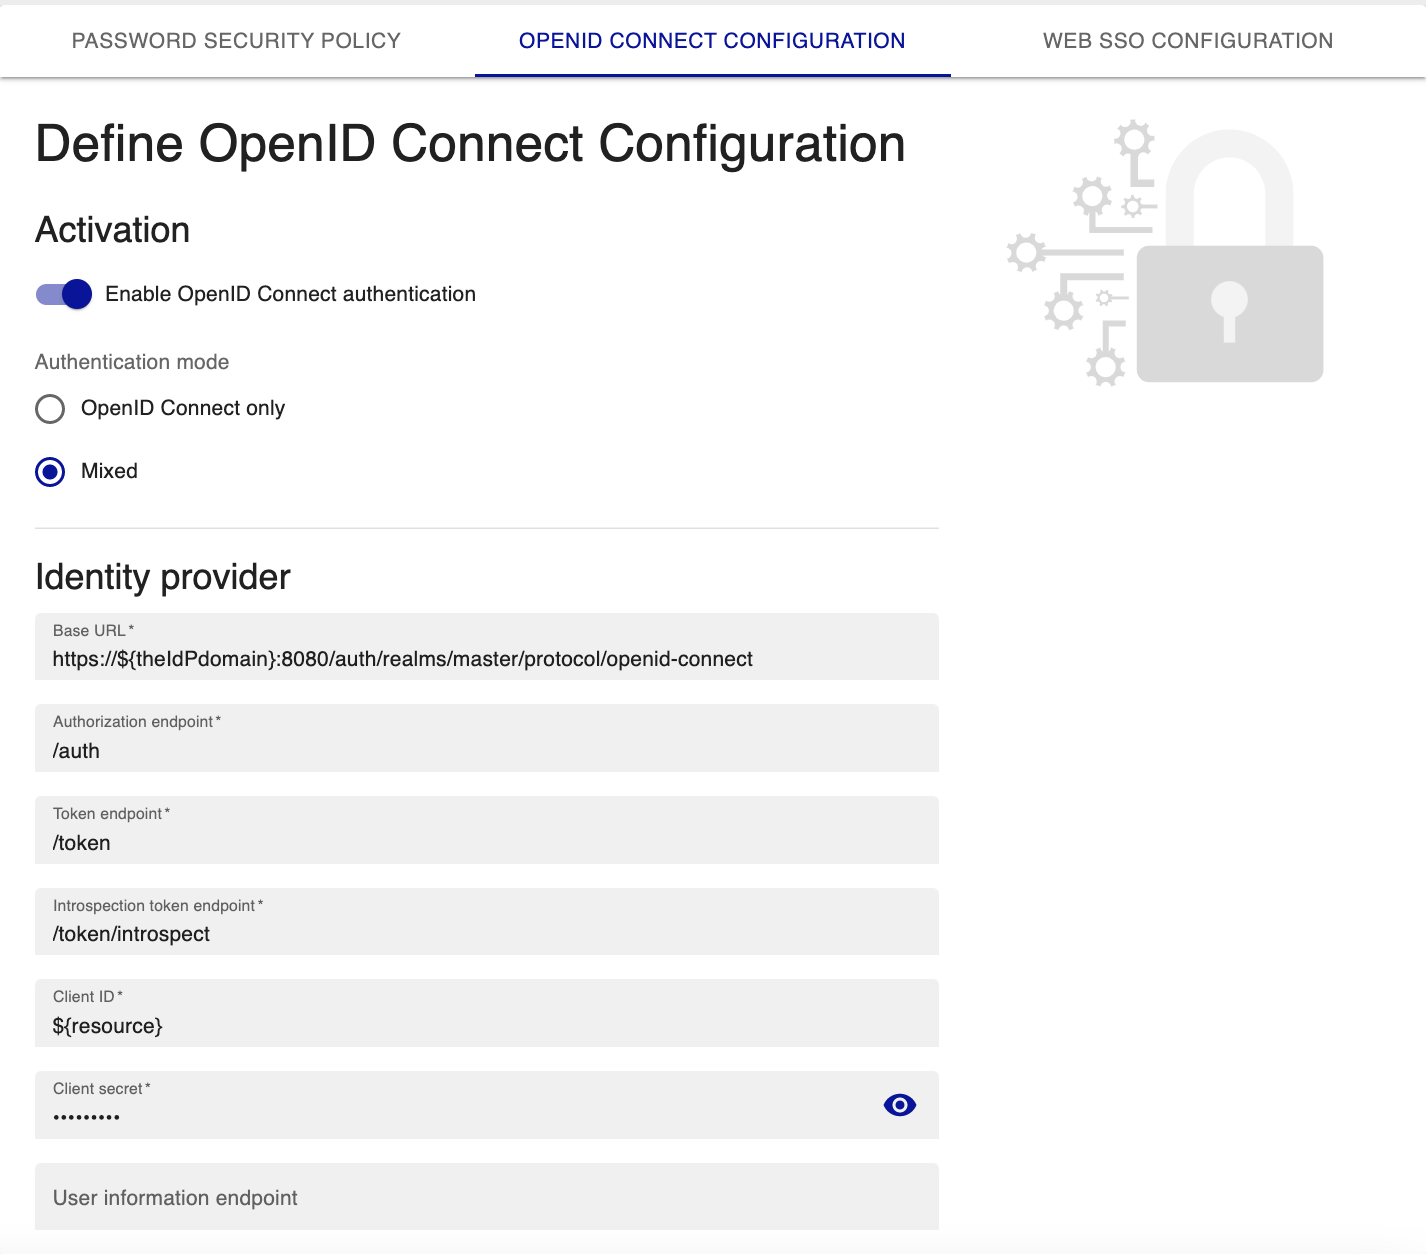
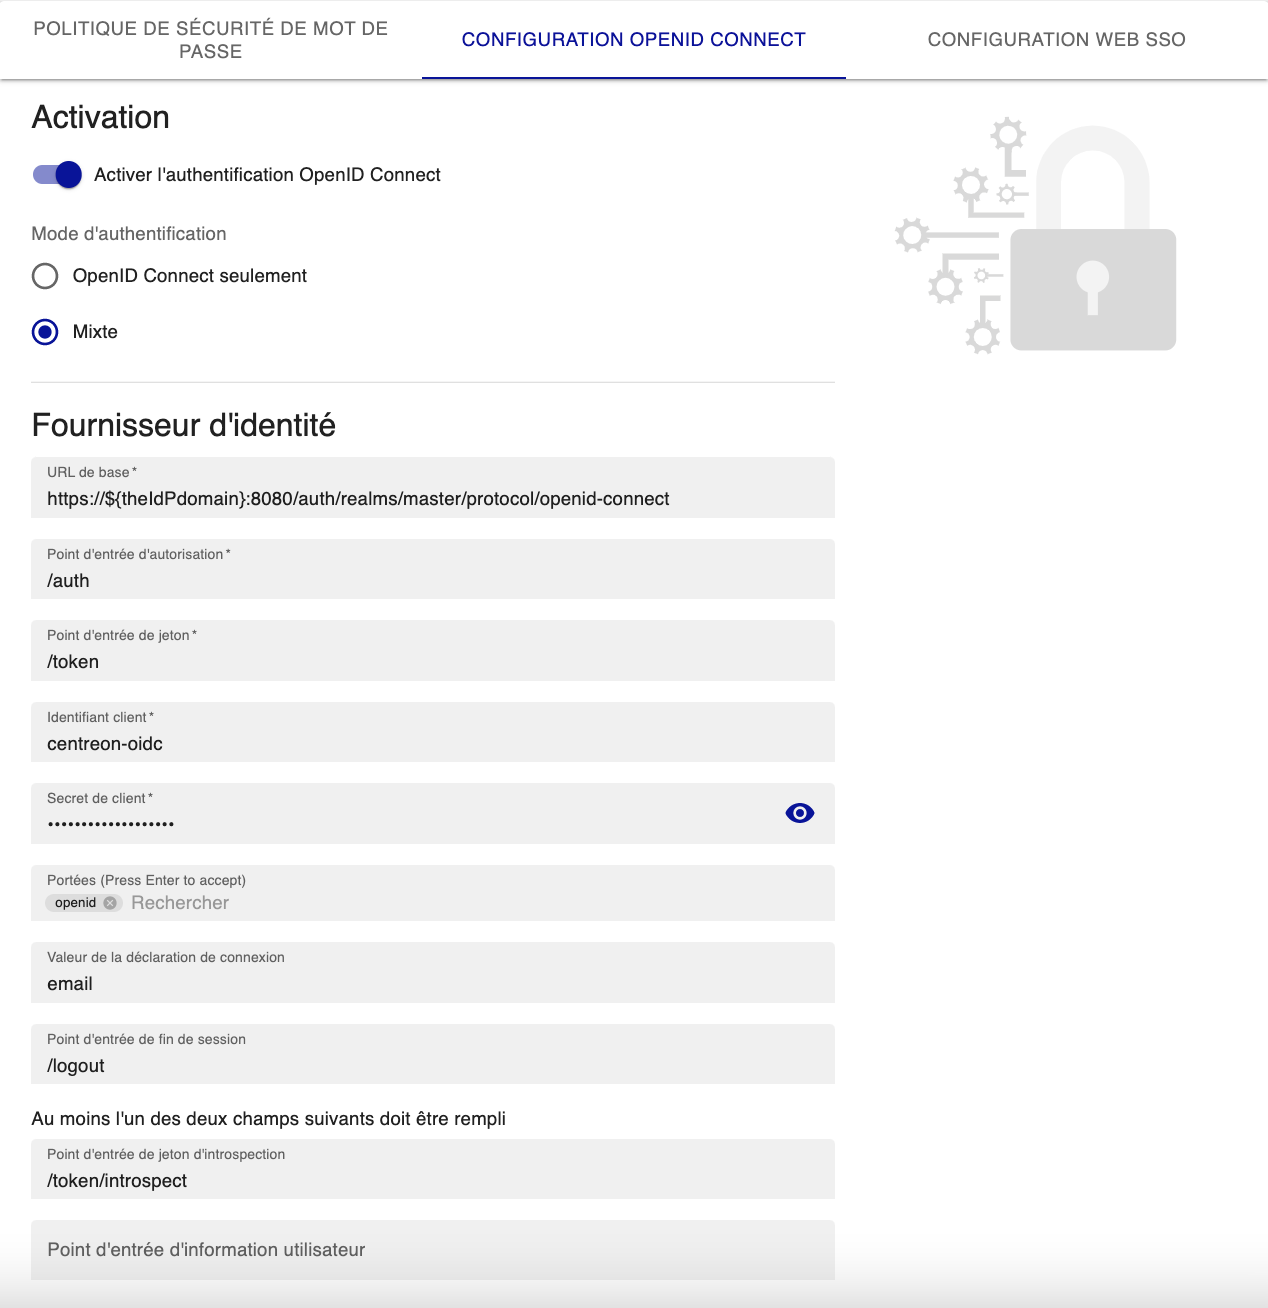
enh(oidc): improve configuration

diff --git a/i18n/fr/docusaurus-plugin-content-docs/version-22.04/connect/openid.md b/i18n/fr/docusaurus-plugin-content-docs/version-22.04/connect/openid.md
@@ -35,16 +35,22 @@ Renseignez les informations du fournisseur d'identité :
 - **URL de base** : définit l'URL de base du fournisseur d'identité pour les points d'entrée OpenId Connect (obligatoire).
 - **Point d'entrée d'autorisation** : définit le point d'entrée d'autorisation, par exemple `/authorize` (obligatoire).
 - **Point d'entrée de jeton** : définit le point d'entrée du jeton, par exemple `/token` (obligatoire).
-- **Point d'entrée de jeton d'introspection** : définit le point d'entrée du jeton d'introspection, par exemple `/introspect` (obligatoire).
 - **ID de client** : définit l'ID client.
 - **Secret de client** : définit le secret client.
-- **Point d'entrée d'information utilisateur** : définit le point d'entrée des informations utilisateur, par exemple `/userinfo`.
-- **Point d'entrée de fin de session** : définit le point d'entrée de déconnexion, par exemple `/logout`.
 - **Portées** : définit la portée du fournisseur d'identité, par exemple `openid`. Séparez différentes portées par des espaces.
   > Selon le fournisseur d'identité, il est nécessaire de saisir plusieurs portées (scopes) afin de récupérer la valeur
   > (claim) qui identifiera l'utilisateur. Ceci est indiqué dans la documentation de configuration du fournisseur.
 - **Valeur de la déclaration de connexion** : définit quelle variable renvoyée par les points d'entrée
 **Point d'entrée de jeton d'introspection** ou **Point d'entrée d'information utilisateur** doit être utilisée pour authentifier l'utilisateur. Par exemple `sub` ou `email`.
+- **Point d'entrée de fin de session** : définit le point d'entrée de déconnexion, par exemple `/logout`.
+
+Suivant votre fournisseur d'identité, définissez l'un ou l'autre des deux endpoints suivants :
+
+- **Point d'entrée de jeton d'introspection** : définit le point d'entrée du jeton d'introspection, par exemple `/introspect` (obligatoire).
+- **Point d'entrée d'information utilisateur** : définit le point d'entrée des informations utilisateur, par exemple `/userinfo`.
+
+Vous pouvez également configurer :
+
 - **Utiliser l'authentification basique pour l'authentification du point d'entrée de jeton** : si cette option est activée, la méthode `Authorization: Basic` sera utilisée. Activez cette option si votre fournisseur d'identité le demande.
 - **Disable SSL verify peer** : permet de désactiver la validation des pairs SSL. Le certificat du fournisseur d'identité ne sera pas vérifié : cette option ne doit être utilisée qu'à des fins de test.
 
@@ -65,6 +71,18 @@ Si vous laissez ces deux champs vides, toutes les adresses IP seront autorisées
 
 À la page **Configuration > Utilisateurs > Contacts/Utilisateurs**, [créez les utilisateurs](../monitoring/basic-objects/contacts-create.md) qui se connecteront à Centreon avec OpenID et [donnez-leur des droits](../administration/access-control-lists.md) via des groupes d'accès.
 
+### Step 5: Configurer le fournisseur d'identité
+
+Configurer votre fournisseur d'identité pour ajouter l'application Centreon à utiliser le protocole OpenID Connect pour
+authentifier vos utilisateur, et pour autoriser `l'uri de redirection` suivante une fois vos utilisateurs authentifiés :
+
+```shell
+{protocol}://{server}:{port}/centreon/authentication/providers/configurations/openid
+```
+
+> Remplacez `{protocol}`, `{server}` et `{port}` par l'URI permettant d'accéder à votre serveur Centreon.
+> Par exemple : `https://centreon.domain.net/centreon/authentication/providers/configurations/openid`
+
 ### Exemples de configuration
 
 <Tabs groupId="sync">
@@ -77,7 +95,6 @@ Voici un exemple de configuration pour Microsoft Azure Active Directory:
 | Base Url                     | https://login.microsoftonline.com/${tenantId}/oauth2/v2.0 |
 | Authorization Endpoint       | /authorize                                                |
 | Token Endpoint               | /token                                                    |
-| Introspection Token Endpoint | /introspect                                               |
 | User Information Endpoint    | https://graph.microsoft.com/oidc/userinfo                 |
 | End Session Endpoint         |                                                           |
 | Scope                        | openid                                                    |
@@ -122,10 +139,10 @@ Voici un exemple de configuration pour Keycloak:
 | End Session Endpoint         | /logout                                                                 |
 | Scope                        | openid                                                                  |
 | Login claim value            | email                                                                   |
-| Client ID                    | ${resource}                                                             |
-| Client Secret                | ${secret}                                                               |
+| Client ID                    | ${clientId}                                                             |
+| Client Secret                | ${clientSecret}                                                         |
 
-> Remplacez `${theIdPdomain}`, `${resource}` et `${secret}` par vos propres valeurs.
+> Remplacez `${theIdPdomain}`, `${clientId}` et `${clientSecret}` par vos propres valeurs.
 
 </TabItem>
 <TabItem value="LemonLDAP::NG" label="LemonLDAP::NG">

diff --git a/versioned_docs/version-22.04/connect/openid.md b/versioned_docs/version-22.04/connect/openid.md
@@ -34,16 +34,22 @@ Configure Identity Provider information:
 - **Base URL**: defines the identity provider's base URL for OpenId Connect endpoints (mandatory).
 - **Authorization Endpoint**: defines the authorization endpoint, for example `/authorize` (mandatory).
 - **Token Endpoint**: defines the token endpoint, for example `/token` (mandatory).
-- **Introspection Token Endpoint**: defines the introspection token endpoint, for example `/introspect` (mandatory).
 - **Client ID**: defines the Client ID.
 - **Client Secret**: defines the Client secret.
-- **User Information Endpoint**: defines the user information endpoint, for example `/userinfo`.
-- **End Session Endpoint**: defines the logout endpoint, for example `/logout`.
 - **Scopes**: defines the scopes of the identity provider, for example `openid`. Separate scopes by spaces.
   > Depending on the identity provider, it is necessary to enter several scopes in order to retrieve the claim which will
   > identify users. This is indicated in the provider's configuration documentation.
-- **Login claim value**: defines which of the variables returned by **Introspection Token Endpoint** or **User Information Endpoint**
+  - **Login claim value**: defines which of the variables returned by **Introspection Token Endpoint** or **User Information Endpoint**
   must be used to authenticate users. For example `sub` or `email`.
+- **End Session Endpoint**: defines the logout endpoint, for example `/logout`.
+
+Depending on your identity provider, set either of the following two endpoints:
+
+- **User Information Endpoint**: defines the user information endpoint, for example `/userinfo`.
+- **Introspection Token Endpoint**: defines the introspection token endpoint, for example `/introspect` (mandatory).
+
+You can also configure:
+
 - **Use Basic Auth for Token Endpoint Authentication**: the `Authorization: Basic` method will be used. Enable this option if your identity provider requires it.
 - **Disable SSL verify peer**: allows you to disable SSL peer validation. The identity provider's certificate will not be checked: use this option for test purposes only.
 
@@ -63,6 +69,18 @@ If you leave both fields blank, all IP adresses will be allowed to access the Ce
 
 On page **Configuration > Users > Contacts/Users**, [create the users](../monitoring/basic-objects/contacts-create.md) that will log on to Centreon using OpenID and [grant them rights](../administration/access-control-lists.md) using access groups.
 
+### Step 5: Configure your Identity Provider (IdP)
+
+Configure your IdP to add the Centreon application to use the OpenID Connect protocol to authenticate your users,
+And to authorize the following `redirect URI` to forward your connecter users to Centreon:
+
+```shell
+{protocol}://{server}:{port}/centreon/authentication/providers/configurations/openid
+```
+
+> Replace `{protocol}`, `{server}` and `{port}` by the URI to access to your Centreon server.
+> For example: `https://centreon.domain.net/centreon/authentication/providers/configurations/openid`
+
 ## Examples of configuration
 
 <Tabs groupId="sync">
@@ -75,7 +93,6 @@ Here is an example configuration for Microsoft Azure Active Directory:
 | Base Url                     | https://login.microsoftonline.com/${tenantId}/oauth2/v2.0 |
 | Authorization Endpoint       | /authorize                                                |
 | Token Endpoint               | /token                                                    |
-| Introspection Token Endpoint | /introspect                                               |
 | User Information Endpoint    | https://graph.microsoft.com/oidc/userinfo                 |
 | End Session Endpoint         |                                                           |
 | Scope                        | openid                                                    |
@@ -120,10 +137,10 @@ Here is an example configuration for Keycloak:
 | End Session Endpoint         | /logout                                                                 |
 | Scope                        | openid                                                                  |
 | Login claim value            | email                                                                   |
-| Client ID                    | ${resource}                                                             |
-| Client Secret                | ${secret}                                                               |
+| Client ID                    | ${clientId}                                                             |
+| Client Secret                | ${clientSecret}                                                         |
 
-> Please replace `${theIdPdomain}`, `${resource}` and `${secret}` with your own values.
+> Please replace `${theIdPdomain}`, `${clientId}` and `${clientSecret}` with your own values.
 
 </TabItem>
 <TabItem value="LemonLDAP::NG" label="LemonLDAP::NG">
